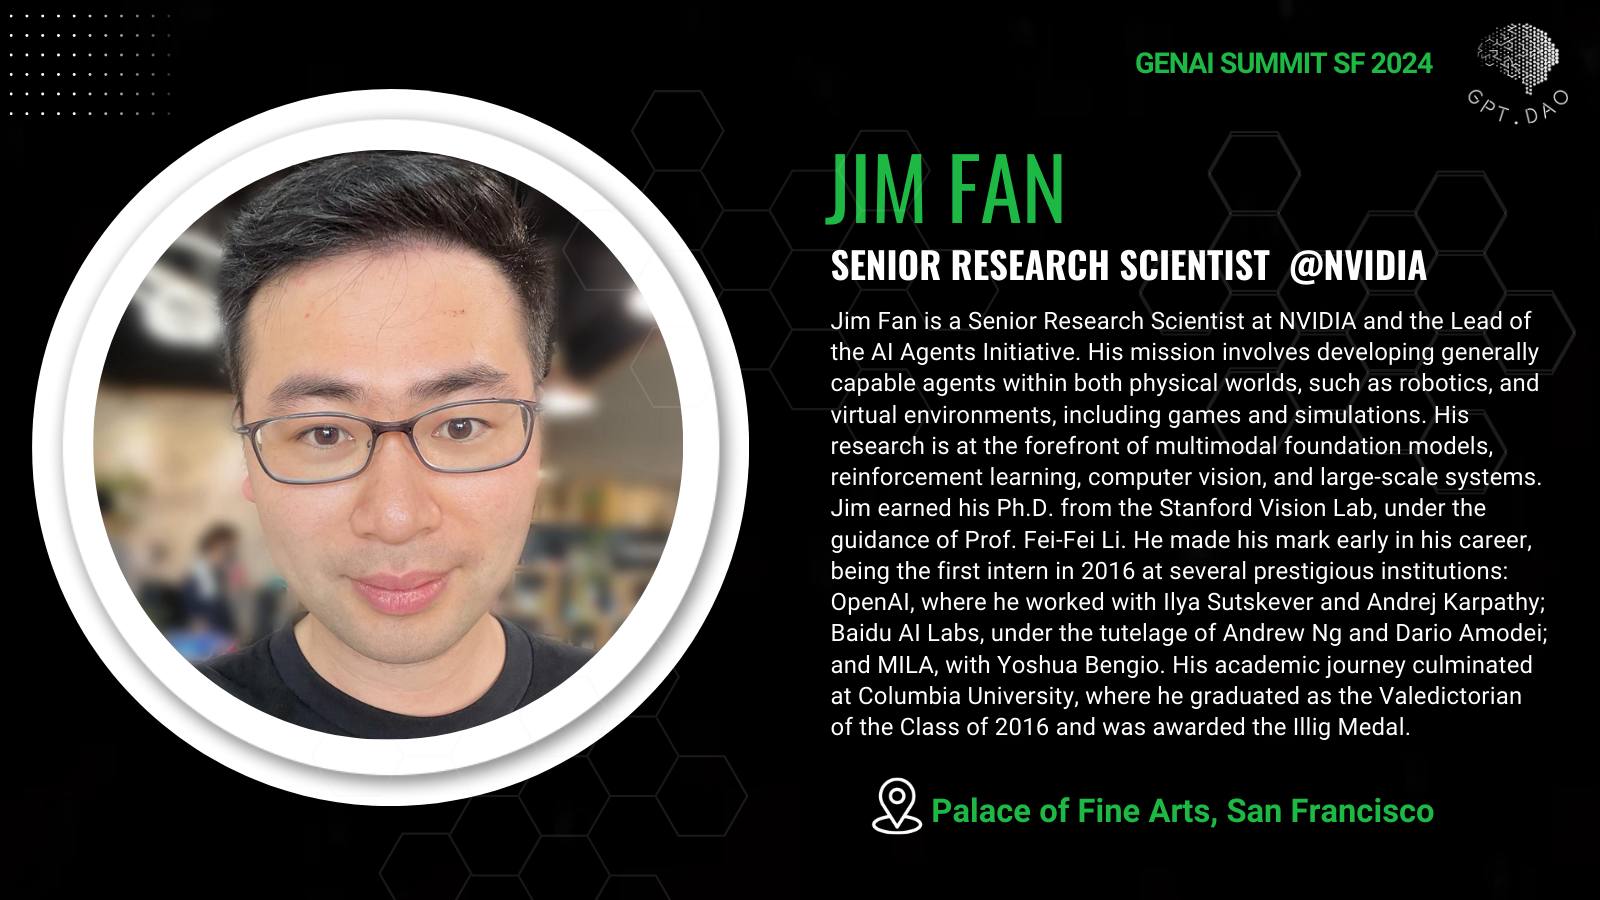
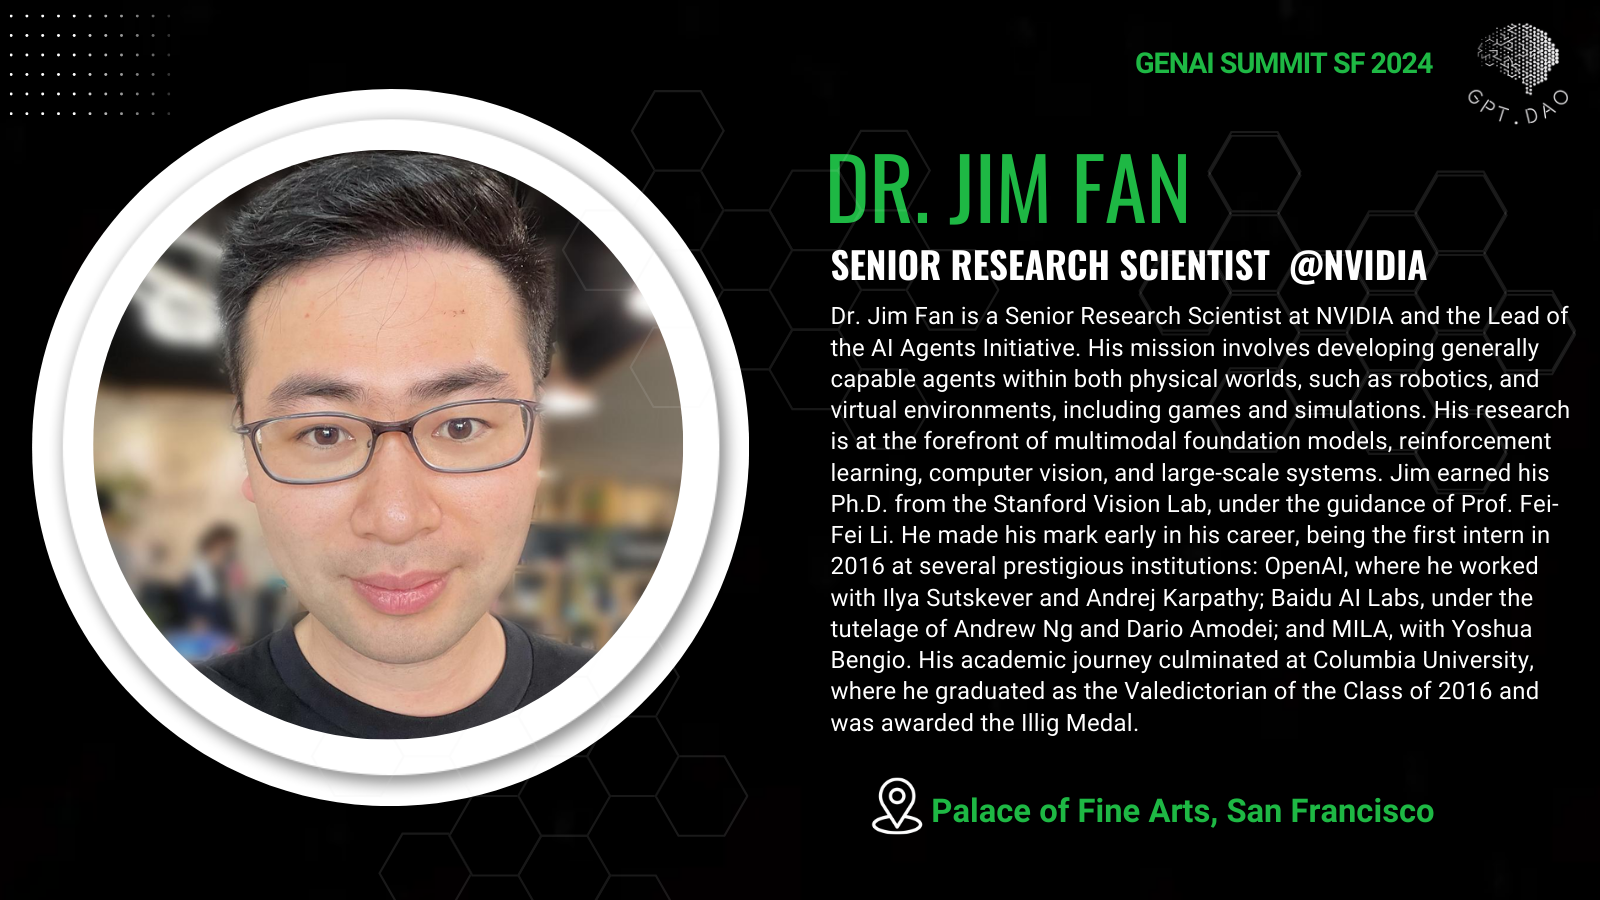
sf35
fix popup window issue

Changed region(s): [[0.5, 0.3422, 0.9688, 0.84], [0.5, 0.1556, 0.75, 0.2489]]

diff --git a/summit/src/components/Home/Speakers.jsx b/summit/src/components/Home/Speakers.jsx
@@ -17,7 +17,12 @@ const Speakers = () => {
 
     const handleImageClick = (popup) => {
         const imagePath = popup?.default || popup;
-        const newWindow = window.open(imagePath, '_blank', 'width=600,height=400');
+        const newWindow = window.open(imagePath, '_blank', 'width=1100,height=700');
+
+        // Add event listener to the new window for closing on outside click
+        newWindow.onblur = function() {
+            newWindow.close();
+        };
         newWindow.onload = function() {
             newWindow.document.body.onclick = function(e) {
                 if (e.target === newWindow.document.body) {
@@ -27,12 +32,14 @@ const Speakers = () => {
         };
     };
 
+    
+
     return (
         <section className='speakers-area-two ptb-120'>
             <div className='container'>
                 <div className="section-title">
                     <span>Listen to the Event Speakers</span>
-                    <h2>Speakers </h2>  <h5>--- GenAI SF 2024</h5>
+                    <h2>Speakers</h2>  <h5>--- GenAI SF 2024</h5>
                     <a href="https://www.gptdao.ai/get-started" target="_blank" rel="noopener noreferrer" className="btn btn-primary">Be our Speaker</a>
                 </div>
                 <div className='row'>
@@ -60,53 +67,156 @@ const Speakers = () => {
                         </div>
                     ))}
                 </div>
-            </div>
-            <div className="container">
-                            <div className="section-title">
-                                <h3>More to Come...</h3>
-                                <span>Update Weekly</span>
-                            </div>
-                        </div>
-
-
-            <div className="container">
-                <div className="section-title">
-                    <h2>Previous Speakers</h2> <h5>--- GenAI SV 2023</h5>
+                <div className="container">
+                    <div className="section-title">
+                        <h3>More to Come...</h3>
+                        <span>Update Weekly</span>
+                    </div>
                 </div>
-                <div className="row">
-                    {currentSpeakers.map(speaker => (
-                        <div className="mb-5 col-lg-2 col-md-3 col-sm-4 col-4" key={speaker.name}>
-                            <div className="single-speakers-box">
-                                <div className="speakers-image" >
-                                    <img src={speaker.image} alt={speaker.name} />
-                                </div>
-                                <div className="speakers-content">
-                                    <h3>{speaker.name}</h3>
-                                    <span>{speaker.title}</span>
-                                    <span>{speaker.company}</span>
-                                    <ul className="social">
-                                        {speaker.socialLinks.map(link => (
-                                            <li key={link.href}>
-                                                <a target="_blank" rel="noopener noreferrer" href={link.href}>
-                                                    <i className={link.icon}></i>
-                                                </a>
-                                            </li>
-                                        ))}
-                                    </ul>
+                <div className="container">
+                    <div className="section-title">
+                        <h2>Previous Speakers</h2> <h5>--- GenAI SV 2023</h5>
+                    </div>
+                    <div className="row">
+                        {currentSpeakers.map(speaker => (
+                            <div className="mb-5 col-lg-2 col-md-3 col-sm-4 col-4" key={speaker.name}>
+                                <div className="single-speakers-box">
+                                    <div className="speakers-image" >
+                                        <img src={speaker.image} alt={speaker.name} />
+                                    </div>
+                                    <div className="speakers-content">
+                                        <h3>{speaker.name}</h3>
+                                        <span>{speaker.title}</span>
+                                        <span>{speaker.company}</span>
+                                        <ul className="social">
+                                            {speaker.socialLinks.map(link => (
+                                                <li key={link.href}>
+                                                    <a target="_blank" rel="noopener noreferrer" href={link.href}>
+                                                        <i className={link.icon}></i>
+                                                    </a>
+                                                </li>
+                                            ))}
+                                        </ul>
+                                    </div>
                                 </div>
                             </div>
-                        </div>
-                    ))}
+                        ))}
+                    </div>
+                    <button onClick={toggleSpeakers} className="btn btn-primary">
+                        {isSpeakers2Shown ? 'Close' : 'Load more'}
+                    </button>
                 </div>
-                <button onClick={toggleSpeakers} className="btn btn-primary">
-                    {isSpeakers2Shown ? 'Close' : 'Load more'}
-                </button>
             </div>
         </section>
     );
 };
 
 export default Speakers;
+
+
+
+
+// const Speakers = () => {
+//     const [currentSpeakers, setCurrentSpeakers] = useState(speakers);
+//     const [isSpeakers2Shown, setIsSpeakers2Shown] = useState(false);
+
+//     const toggleSpeakers = () => {
+//         setCurrentSpeakers(isSpeakers2Shown ? speakers : speakers2);
+//         setIsSpeakers2Shown(!isSpeakers2Shown);
+//     };
+
+    // const handleImageClick = (popup) => {
+    //     const imagePath = popup?.default || popup;
+    //     const newWindow = window.open(imagePath, '_blank', 'width=1200,height=900');
+    //     newWindow.onload = function() {
+    //         newWindow.document.body.onclick = function(e) {
+    //             if (e.target === newWindow.document.body) {
+    //                 newWindow.close();
+    //             }
+    //         };
+    //     };
+    // };
+
+//     return (
+//         <section className='speakers-area-two ptb-120'>
+//             <div className='container'>
+//                 <div className="section-title">
+//                     <span>Listen to the Event Speakers</span>
+//                     <h2>Speakers </h2>  <h5>--- GenAI SF 2024</h5>
+//                     <a href="https://www.gptdao.ai/get-started" target="_blank" rel="noopener noreferrer" className="btn btn-primary">Be our Speaker</a>
+//                 </div>
+//                 <div className='row'>
+//                     {speakersnew.map(speakernew => (
+//                         <div className='mb-5 col-lg-2 col-md-3 col-sm-4 col-4' key={speakernew.name}>
+//                             <div className='single-speakers-box'>
+//                                 <div className='speakers-image' onClick={() => handleImageClick(speakernew.popup)}>
+//                                     <img src={speakernew.image} alt={speakernew.name} style={{cursor: 'pointer'}} />
+//                                 </div>
+//                                 <div className="speakers-content">
+//                                     <h3>{speakernew.name}</h3>
+//                                     <span>{speakernew.title}</span>
+//                                     <span>{speakernew.company}</span>
+//                                     <ul className="social">
+//                                         {speakernew.socialLinks.map(link => (
+//                                             <li key={link.href}>
+//                                                 <a target="_blank" rel="noopener noreferrer" href={link.href}>
+//                                                     <i className={link.icon}></i>
+//                                                 </a>
+//                                             </li>
+//                                         ))}
+//                                     </ul>
+//                                 </div>
+//                             </div>
+//                         </div>
+//                     ))}
+//                 </div>
+//             </div>
+//             <div className="container">
+//                             <div className="section-title">
+//                                 <h3>More to Come...</h3>
+//                                 <span>Update Weekly</span>
+//                             </div>
+//                         </div>
+
+
+//             <div className="container">
+//                 <div className="section-title">
+//                     <h2>Previous Speakers</h2> <h5>--- GenAI SV 2023</h5>
+//                 </div>
+//                 <div className="row">
+//                     {currentSpeakers.map(speaker => (
+//                         <div className="mb-5 col-lg-2 col-md-3 col-sm-4 col-4" key={speaker.name}>
+//                             <div className="single-speakers-box">
+//                                 <div className="speakers-image" >
+//                                     <img src={speaker.image} alt={speaker.name} />
+//                                 </div>
+//                                 <div className="speakers-content">
+//                                     <h3>{speaker.name}</h3>
+//                                     <span>{speaker.title}</span>
+//                                     <span>{speaker.company}</span>
+//                                     <ul className="social">
+//                                         {speaker.socialLinks.map(link => (
+//                                             <li key={link.href}>
+//                                                 <a target="_blank" rel="noopener noreferrer" href={link.href}>
+//                                                     <i className={link.icon}></i>
+//                                                 </a>
+//                                             </li>
+//                                         ))}
+//                                     </ul>
+//                                 </div>
+//                             </div>
+//                         </div>
+//                     ))}
+//                 </div>
+//                 <button onClick={toggleSpeakers} className="btn btn-primary">
+//                     {isSpeakers2Shown ? 'Close' : 'Load more'}
+//                 </button>
+//             </div>
+//         </section>
+//     );
+// };
+
+// export default Speakers;
 
 // const Speakers = () => {
 

diff --git a/summit/src/components/Home/speakersDataNew.js b/summit/src/components/Home/speakersDataNew.js
@@ -18,17 +18,18 @@ export const speakersnew = [
             
     //     ]
     // },
-    // {
-    //     image: require("../../assets/images/speakers/jason_wei.jpeg"),
-    //     name: "Jason Wei",
-    //     title: "AI Researcher",
-    //     company: "OpenAI",
-    //     socialLinks: [
-    //         { href: "https://twitter.com/_jasonwei", icon: "icofont-twitter" },
-    //         { href: "https://www.linkedin.com/in/jason-wei-5a7323b0/", icon: "icofont-linkedin" },
-    //         { href: "https://www.jasonwei.net/", icon: "icofont-web" }
-    //     ]
-    // },
+    {
+        image: require("../../assets/images/speakers/jason_wei.jpeg"),
+        name: "Jason Wei",
+        title: "AI Researcher",
+        company: "OpenAI",
+        popup: require("../../assets/images/speakers/popup/jasonwei.png"),
+        socialLinks: [
+            { href: "https://twitter.com/_jasonwei", icon: "icofont-twitter" },
+            { href: "https://www.linkedin.com/in/jason-wei-5a7323b0/", icon: "icofont-linkedin" },
+            { href: "https://www.jasonwei.net/", icon: "icofont-web" }
+        ]
+    },
     //     {
 
     //     image: require("../../assets/images/speakers/harrison.jpeg"),
@@ -78,7 +79,7 @@ export const speakersnew = [
     //     ]
     // },
     {
-        name: "Jim Fan",
+        name: "Dr. Jim Fan",
         title: "Senior Research Scientist",
         company: "NVIDIA AI",
         image: require("../../assets/images/speakers/jim_fan.jpeg"),
@@ -122,7 +123,7 @@ export const speakersnew = [
     },
     {
         image: require("../../assets/images/speakers/yangqingjia.jpeg"),
-        name: "Yangqing Jia",
+        name: "Dr. Yangqing Jia",
         title: "Founder",
         company: "Lepton AI",
         popup: require("../../assets/images/speakers/popup/yangqing.png"),
